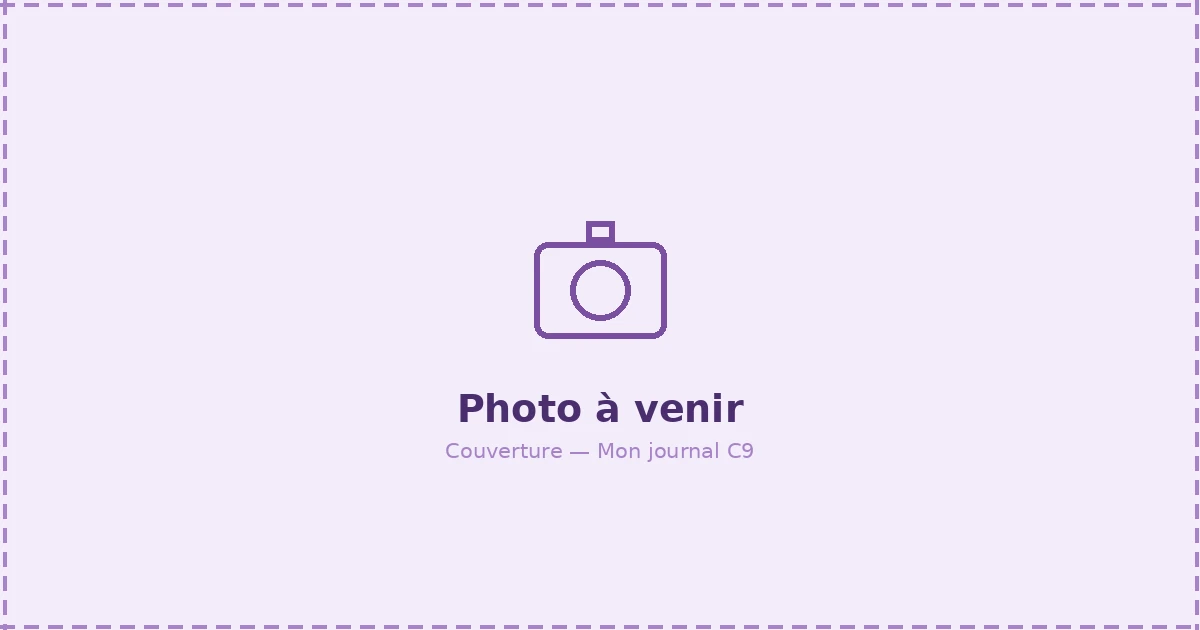
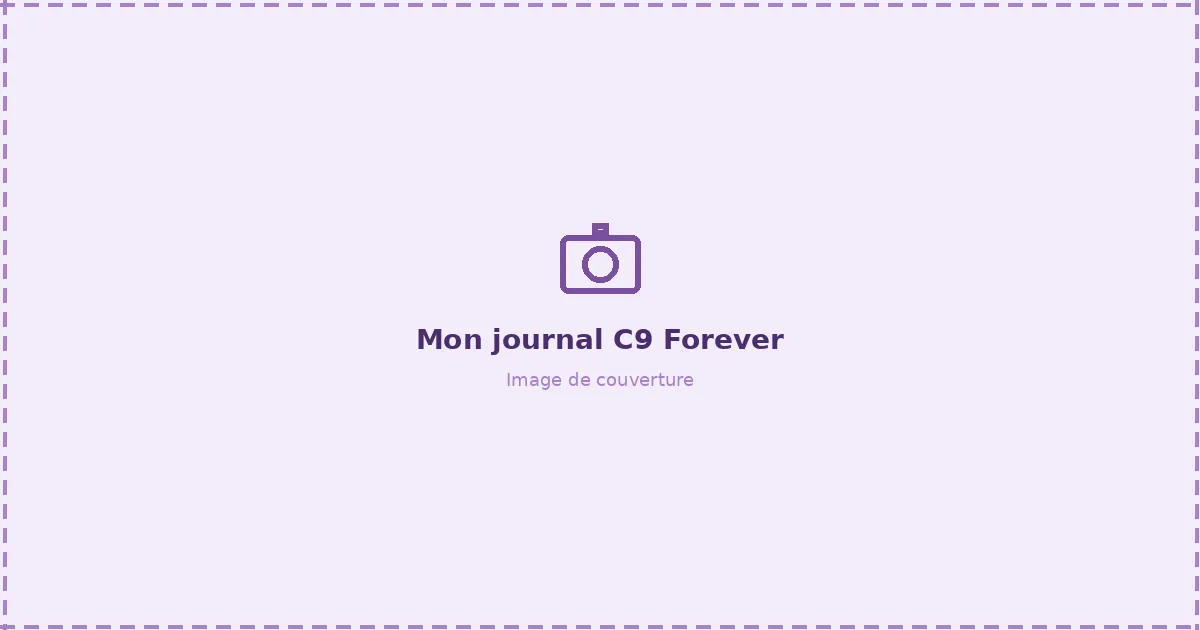
Photos WebP du journal C9 + alt SEO descriptifs + Jour 6

Changed region(s): [[0.3392, 0.3317, 0.6475, 0.7238]]

diff --git a/src/content/journal/c9-aout-2026.md b/src/content/journal/c9-aout-2026.md
@@ -35,11 +35,12 @@ jours:
     negatifs:
       - "Je sors d'un week-end malade, un peu affaibli au départ"
     photos:
-      - src: "/images/journal/jour1-produit-shaker.jpg"
-        legende: "Forever Lite Ultra chocolat et mon shaker"
+      - src: "/images/journal/jour1-journee.webp"
+        legende: "Forever Lite Ultra chocolat et shaker Forever, jour 1 du programme C9"
     infoDuJour:
       titre: "La pulpe d'Aloe Vera"
       texte: "C'est la base du programme, celle qu'on prend matin et soir pendant les 9 jours. Le gel Forever est stabilisé et certifié IASC, ce qui garantit sa pureté. Il soutient la digestion et l'assimilation des nutriments — autrement dit, il aide tous les autres compléments du pack à mieux faire leur travail. À boire de préférence à jeun, et bien secouer la bouteille avant chaque prise. Une fois ouverte, elle se garde au frais."
+      photo: "/images/journal/jour1-info.webp"
 
   - numero: 2
     date: 2026-08-12
@@ -54,11 +55,12 @@ jours:
       - "Nuit perturbée (besoins d'uriner fréquents, coucher tardif)"
       - "Faim difficile à gérer en fin de journée, la plus dure de la cure jusqu'ici"
     photos:
-      - src: "/images/journal/jour2-velo-pont-saint-nazaire.jpg"
-        legende: "Sortie vélo, pont de Saint-Nazaire en fond"
+      - src: "/images/journal/jour2-journee.webp"
+        legende: "Vélo de route devant le pont de Saint-Nazaire, sortie du jour 2 du C9"
     infoDuJour:
       titre: "Forever Garcinia Plus"
       texte: "Le Garcinia se prend avant les repas, avec un grand verre d'eau. Il contient de l'acide hydroxycitrique (HCA), extrait du fruit Garcinia cambogia, associé à de l'huile de carthame. Dans le cadre du C9, il accompagne la gestion de l'appétit sur les moments où la faim se fait le plus sentir. Mon conseil : ne le prenez pas au dernier moment — le prendre 15 à 30 minutes avant le repas fait une vraie différence sur le confort."
+      photo: "/images/journal/jour2-info.webp"
 
   - numero: 3
     date: 2026-08-13
@@ -76,13 +78,12 @@ jours:
       - "Course à pied rendue plus dure par un départ trop tardif et la chaleur"
       - "Coucher tardif (1h) après la soirée, chaleur dans la maison → nuit pas terrible"
     photos:
-      - src: "/images/journal/jour3-course-a-pied.jpg"
-        legende: "Tenue de course avant la sortie du Jour 3"
-      - src: "/images/journal/jour3-garmin-recap.png"
-        legende: "Données Garmin : 5,29 km en 30 min, allure 5:40/km, FC moy. 149 bpm"
+      - src: "/images/journal/jour3-journee.webp"
+        legende: "Tenue de course à pied et montre GPS, jour 3 du programme C9"
     infoDuJour:
       titre: "Forever Therm"
       texte: "Forever Therm accompagne le métabolisme grâce à trois plantes — thé vert riche en catéchines, guarana et café vert, sources de caféine naturelle — associées à un complexe de vitamines B et C qui contribue à réduire la fatigue. Deux comprimés par jour, un le matin et un le midi, avec un grand verre d'eau. Point important : jamais après 18 h, la caféine naturelle pourrait perturber votre sommeil. Si vous êtes sensible à la caféine, commencez doucement."
+      photo: "/images/journal/jour3-info.webp"
 
   - numero: 4
     date: 2026-08-14
@@ -95,10 +96,13 @@ jours:
     negatifs:
       - "Nuit perturbée (compagne malade, un moustique)"
       - "Faim bien présente et difficile en fin de journée, envie de manger solide"
-    photos: []
+    photos:
+      - src: "/images/journal/jour4-journee.webp"
+        legende: "Sortie vélo du jour 4 du programme C9"
     infoDuJour:
       titre: "Forever Fiber"
       texte: "Un stick de fibres solubles à diluer dans l'eau ou dans votre shaker. Sans gluten, il apporte 5 g de fibres par dose. Son rôle dans le C9 : soutenir le confort digestif et prolonger la sensation de satiété — précieux les jours où la faim se fait sentir en fin d'après-midi. Buvez-le avec un grand verre d'eau et non juste avant le coucher. Mon conseil : c'est un bon allié à garder sous la main les jours où vous savez que votre agenda va être décalé."
+      photo: "/images/journal/jour4-info.webp"
 
   - numero: 5
     date: 2026-08-15
@@ -117,13 +121,14 @@ jours:
       - "Difficulté à partir du 4e/5e km de course, sensation de manque d'hydratation"
       - "Le shaker semble un peu plus difficile à gérer l'après-midi qu'un repas classique au milieu de journée"
     photos:
-      - src: "/images/journal/jour5-course-la-baule.jpg"
-        legende: "Tenue de course, Triathlon Audencia La Baule"
-      - src: "/images/journal/jour5-garmin-recap.png"
-        legende: "Données Garmin : 7,42 km en 40 min, allure 5:24/km, FC moy. 150 bpm"
+      - src: "/images/journal/jour5-journee.webp"
+        legende: "Tenue de course Triathlon Audencia La Baule, jour 5 du C9"
+      - src: "/images/journal/jour5-garmin.webp"
+        legende: "Comparatif Garmin jour 3 et jour 5 du C9 : 5,29 km puis 7,42 km"
     infoDuJour:
       titre: "Forever Lite Ultra"
       texte: "Le shake protéiné du programme, disponible en vanille ou en chocolat (j'ai pris la version chocolat cette fois). Environ 90 kcal et 17 g de protéines par dose, enrichi en vitamines et minéraux. Il remplace un repas pendant la cure tout en maintenant l'apport en protéines, ce qui aide à préserver la masse musculaire. À mélanger dans 250 ml d'eau ou de lait végétal, bien secouer au shaker. Petit détail agaçant : le shaker n'est pas fourni dans le pack, prévoyez le vôtre."
+      photo: "/images/journal/jour5-info.webp"
 
   - numero: 6
     date: 2026-08-16
@@ -139,10 +144,13 @@ jours:
       - "Journée mal organisée : séance en salle trop tardive, Fiber à midi et repas repoussé à 13h30"
       - "Lassitude du même plat 3 soirs de suite — quantités mal calculées en cuisinant"
       - "Faim présente en fin de journée"
-    photos: []
+    photos:
+      - src: "/images/journal/jour6-journee.webp"
+        legende: "Séance de musculation en salle, jour 6 du programme C9"
     infoDuJour:
       titre: "Pourquoi 30 minutes de sport par jour"
       texte: "Le guide du C9 recommande 30 minutes d'activité quotidienne, et ce n'est pas là pour faire joli. Bouger soutient l'élimination, entretient la masse musculaire pendant une période où l'apport calorique est réduit, et aide à mieux gérer les moments de faim. Pas besoin d'être sportif : marche rapide, étirements ou renforcement léger suffisent. Mon conseil issu de l'expérience : calez votre séance ET vos horaires de compléments ensemble, pas séparément. Une séance décalée peut décaler tout le reste de votre journée."
+      photo: "/images/journal/jour6-info.webp"
 
 pointsANePasNegliger:
   - "Anticiper le C9 dans son agenda, ne pas s'y prendre au dernier moment."
